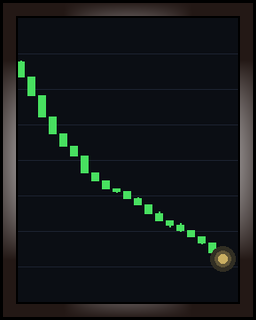
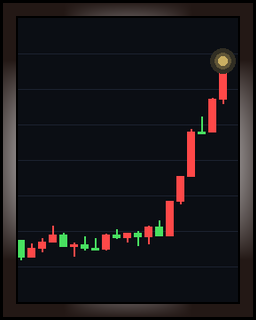
fix(card-expand): 股市卡图重生成（种子换出涨跌混合 + 收尾拉升）+ 自愈检查加注释
Claude-Session: https://claude.ai/code/session_011gRYCoH8AKyQatW1gtKojT

Changed region(s): [[0.0625, 0.125, 0.9375, 0.875]]

diff --git a/mods/th18.v1.00a/card-expand/assets/cards/make_stock_art.py b/mods/th18.v1.00a/card-expand/assets/cards/make_stock_art.py
@@ -14,7 +14,9 @@ from PIL import Image, ImageDraw
 
 HERE = Path(__file__).resolve().parent
 SRC = HERE / "_src"
-SEED = 0x1980  # 股市 = id 80
+SEED = 0x1980 + 581  # 股市 = id 80，偏移量挑出型态清楚的一次
+# （原始 0x1980 是全程单调下跌、红绿不分——同一个占位模型在这个种子上撞出了退化解；
+#  在附近枚举「涨跌都有 + 收尾拉升」的种子，挑第一个看着顺眼的，落在 +581）
 
 W, H = 256, 320
 BG = (11, 14, 20)

diff --git a/mods/th18.v1.00a/card-expand/native/cards/stock.c b/mods/th18.v1.00a/card-expand/native/cards/stock.c
@@ -64,6 +64,7 @@ static void kill_vms(stock_card_t *s)
     }
 }
 
+/* 33 次查表每帧都跑，不是漏优化：这是故意的自愈检查（VM 可能被引擎在别处摧毁），只在该重绘时才查会晚一帧发现。 */
 static int vms_alive(const stock_card_t *s)
 {
     if (!s->bg_id || !ce_anm_get_vm(s->bg_id)) return 0;
